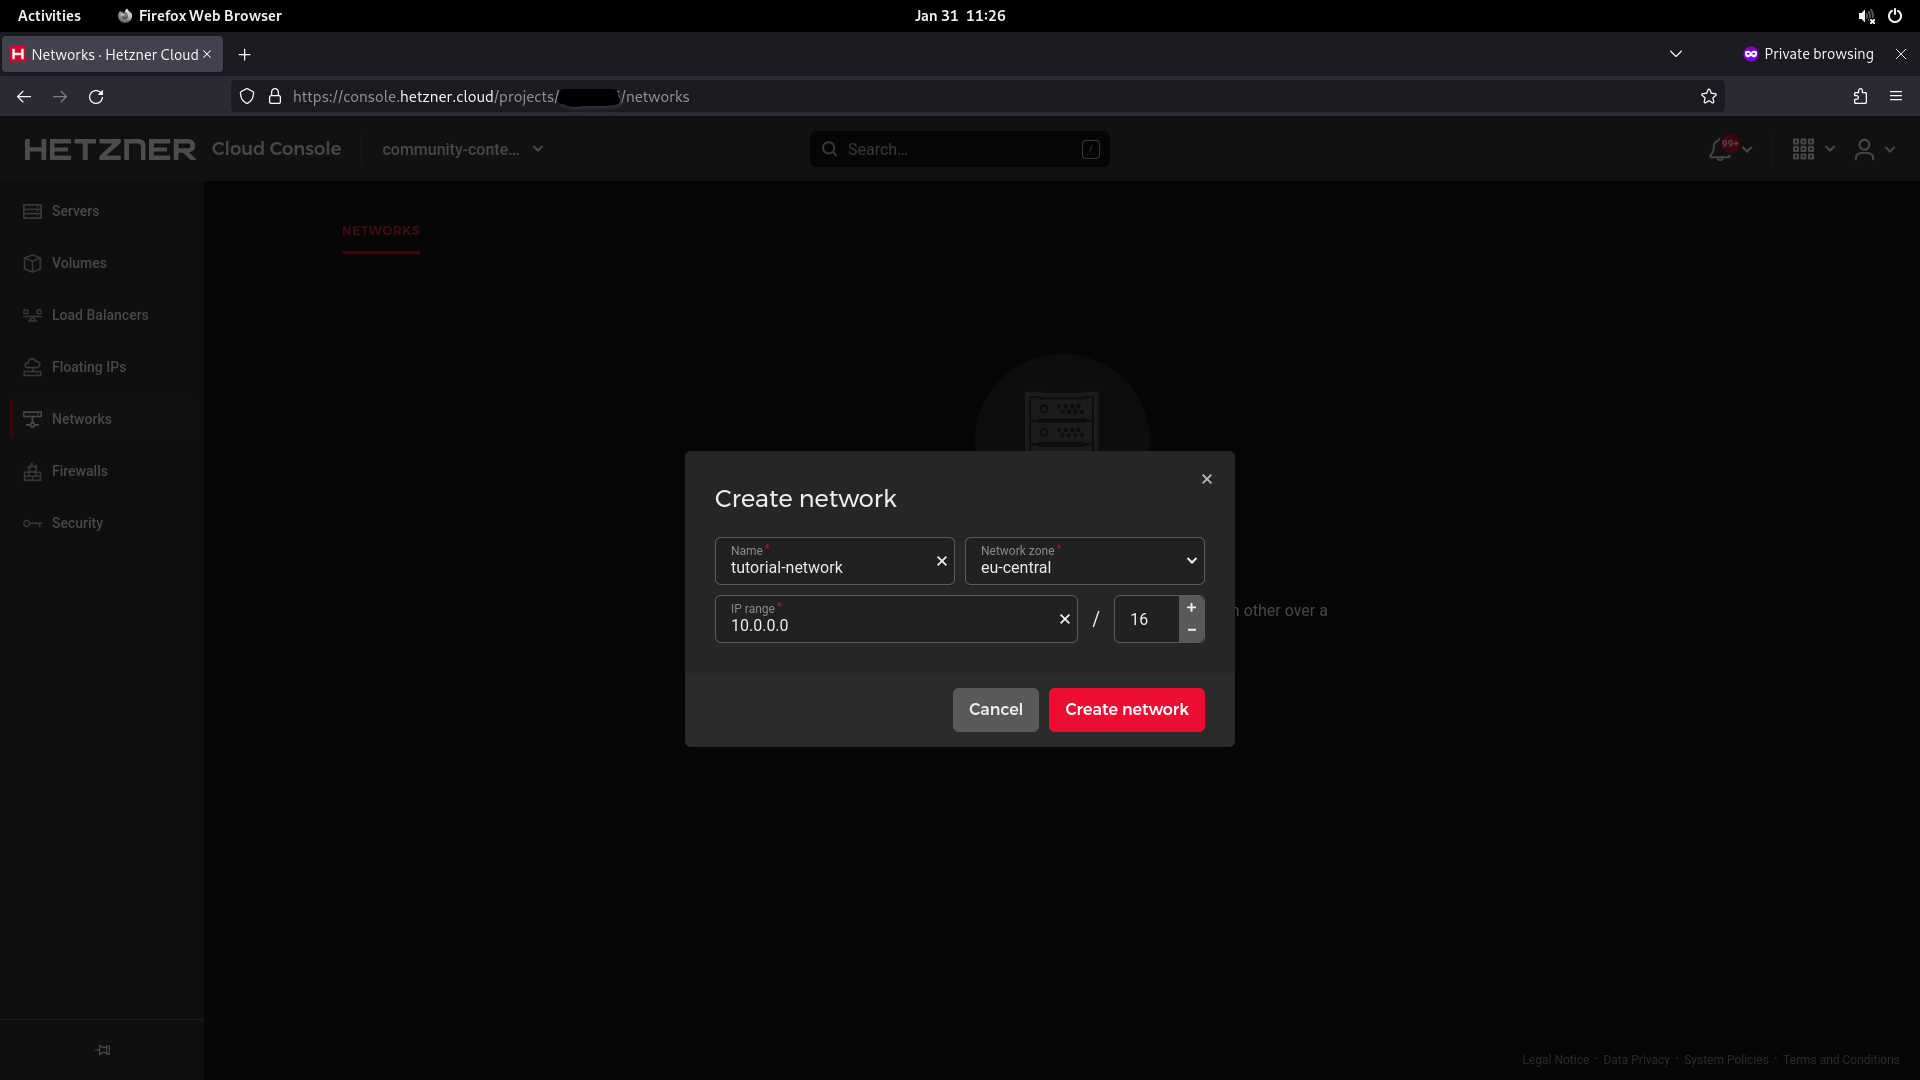
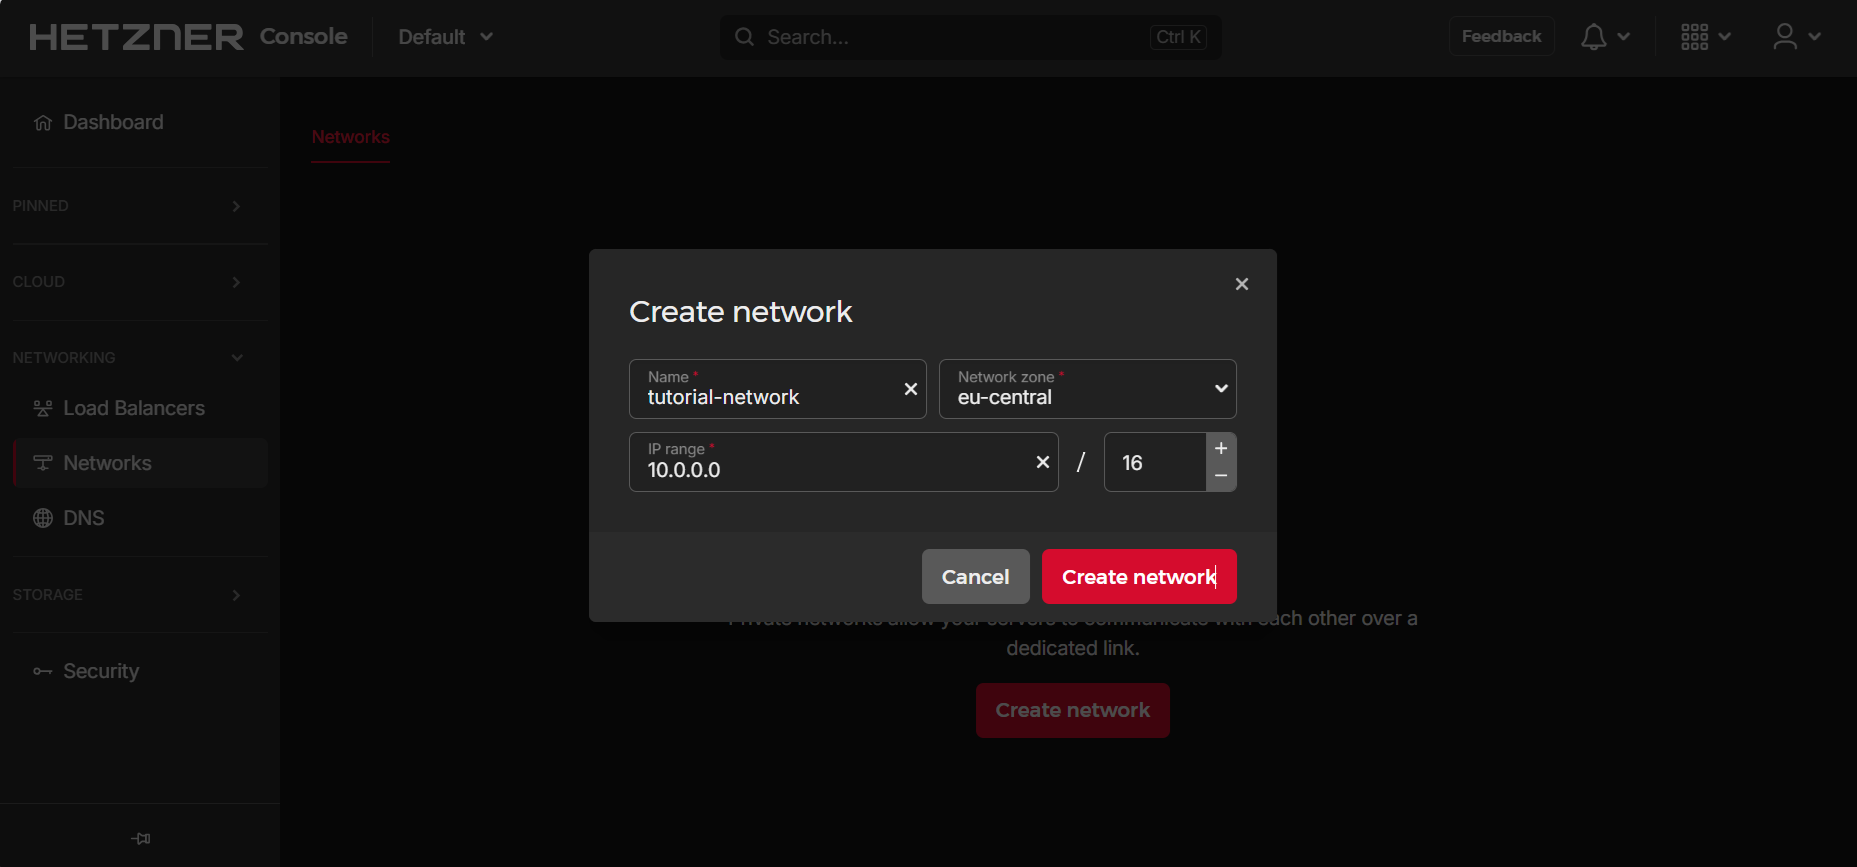
📝 Update cloud-init and screenshots (#1300)

diff --git a/tutorials/how-to-set-up-nat-for-cloud-networks/01.de.md b/tutorials/how-to-set-up-nat-for-cloud-networks/01.de.md
@@ -25,16 +25,16 @@ Am Ende dieses Tutorials, können Sie von Ihrem Server **ohne** öffentlicher IP
 
 **Voraussetzungen**
 
-* [Hetzner Cloud Account](https://console.hetzner.cloud/)
+* [Hetzner Console Account](https://console.hetzner.com/)
 
 * Dieses Tutorial ist geschrieben für:
   * Ubuntu 18.04, 20.04, 22.04 und 24.04
-  * Debian 10, 11 und 12
+  * Debian 10, 11, 12 und 13
     > Unter Debian 12, installiere `systemd-resolved`, bevor du dem Tutorial folgst.
   * CentOS 7
-  * CentOS Stream 8 und 9
-  * Fedora 36 und 37
-  * Rocky Linux 8 und 9
+  * CentOS Stream 8, 9 und 10
+  * Fedora 36, 37, 41 und 42
+  * Rocky Linux 8, 9 und 10
 
 **Beispiel-Benennungen**
 
@@ -46,7 +46,7 @@ In allen Beispiel-Befehlen muss `10.0.0.0/16` mit dem eigenen Network, `10.0.0.1
 
 ## Schritt 1 - Einrichtung des Netzwerks und der Server
 
-Öffnen Sie die Hetzner [Cloud Console](https://console.hetzner.cloud/) und wählen Sie Ihr Projekt aus.
+Öffnen Sie die [Hetzner Console](https://console.hetzner.com/) und wählen Sie Ihr Projekt aus.
 
 Sie können Ihr Network entweder zuerst erstellen oder alternativ im Erstellungsprozess Ihres Server.
 
@@ -165,7 +165,7 @@ Für die Konfiguration von Debian und Ubuntu wird in diesem Tutorial `vim` verwe
 
 <details>
 
-<summary>Debian 10 / 11 / 12, and Ubuntu 18.04</summary>
+<summary>Debian 10 / 11 / 12 / 13, and Ubuntu 18.04</summary>
 
 - **Aktualisieren**
   
@@ -220,6 +220,7 @@ Für die Konfiguration von Debian und Ubuntu wird in diesem Tutorial `vim` verwe
   auto enp7s0
   iface enp7s0 inet dhcp
       post-up ip route add default via 10.0.0.1
+  dns-nameservers 8.8.8.8 1.1.1.1
   ```
 
 ------
@@ -473,11 +474,11 @@ Speichern Sie die Datei und starten Sie den Server neu.
 
 ## Schritt 6 - Cloud-init
 
-Wenn Sie die Routen nicht manuell hinzufügen möchten, können Sie beim Erstellen der Server in der [Cloud Console](https://console.hetzner.cloud/) cloud-init verwenden. Die untenstehenden Skripte müssen auf der Erstellseite in die Textbox unter "Cloud config" hinzugefügt werden.
+Wenn Sie die Routen nicht manuell hinzufügen möchten, können Sie beim Erstellen der Server in der [Hetzner Console](https://console.hetzner.com/) cloud-init verwenden. Die untenstehenden Skripte müssen auf der Erstellseite in die Textbox unter "Cloud config" hinzugefügt werden.
 
 <details>
 
-<summary>Debian 10 / 11 / 12, und Ubuntu 18.04</summary>
+<summary>Debian 11 / 12 / 13</summary>
 
 * **NAT-Server**
   > Ersetzen Sie `10.0.0.0/16` falls nötig.
@@ -511,6 +512,7 @@ Wenn Sie die Routen nicht manuell hinzufügen möchten, können Sie beim Erstell
         iface enp7s0 inet dhcp
             post-up echo "Waiting..."
             post-up ip route add default via 10.0.0.1
+        dns-nameservers 8.8.8.8 1.1.1.1
       append: true
   
     - path: /etc/systemd/resolved.conf
@@ -586,63 +588,17 @@ Wenn Sie die Routen nicht manuell hinzufügen möchten, können Sie beim Erstell
 
 <details>
 
-<summary>Ubuntu 20.04</summary>
-
-* **NAT-Server**
-  > Ersetzen Sie `10.0.0.0/16` falls nötig.
-  
-  ```bash
-  #cloud-config
-  write_files:
-    - path: /etc/networkd-dispatcher/routable.d/50-masq
-      content: |
-        #!/bin/sh
-        
-        /bin/echo 1 > /proc/sys/net/ipv4/ip_forward
-        /sbin/iptables -t nat -A POSTROUTING -s '10.0.0.0/16' -o eth0 -j MASQUERADE
-      permissions: '0755'
-  
-  runcmd:
-    - reboot
-  ```
-
-* **Client-Server**
-  > Ersetzen Sie `10.0.0.1` falls nötig.
-
-  ```bash
-  #cloud-config
-  write_files:
-    - path: /etc/networkd-dispatcher/routable.d/50-masq
-      content: |
-        #!/bin/sh
-        
-        /sbin/ip route add default via 10.0.0.1
-      permissions: '0755'
-  
-    - path: /etc/systemd/resolved.conf
-      content: |
-        [Resolve]
-        DNS=185.12.64.2 185.12.64.1
-        FallbackDNS=8.8.8.8
-      append: true
-  
-  runcmd:
-    - reboot
-  ```
-
-------
-
-</details>
-
-<details>
-
-<summary>CentOS 7, CentOS Stream 8 / 9, Rocky Linux 8 / 9, Fedora 36 / 37</summary>
+<summary>CentOS Stream 9 / 10, Rocky Linux 8 / 9 / 10, Fedora 41 / 42</summary>
 
 * **NAT-Server**
   > Ersetzen Sie `10.0.0.0/16` falls nötig.
 
   ```bash
   #cloud-config
+  packages:
+    - iptables
+    - iptables-services
+  
   write_files:
     - path: /etc/NetworkManager/dispatcher.d/ifup-local
       content: |
@@ -666,7 +622,10 @@ Wenn Sie die Routen nicht manuell hinzufügen möchten, können Sie beim Erstell
       content: |
         #!/bin/sh
         
-        /sbin/ip route add default via 10.0.0.1
+        nm-online -q --timeout=30
+        if ! ip route show default | grep -q "via 10.0.0.1"; then
+            /sbin/ip route add default via 10.0.0.1
+        fi
       permissions: '0755'
   
     - path: /etc/systemd/resolved.conf

diff --git a/tutorials/how-to-set-up-nat-for-cloud-networks/01.en.md b/tutorials/how-to-set-up-nat-for-cloud-networks/01.en.md
@@ -25,16 +25,16 @@ By the end of this tutorial, you will be able to access the public network from 
 
 **Prerequisites**
 
-* [Hetzner Cloud account](https://console.hetzner.cloud/)
+* [Hetzner Console account](https://console.hetzner.com/)
 
 * This tutorial is written for:
   * Ubuntu 18.04, 20.04, 22.04, and 24.04
-  * Debian 10, 11 and 12
+  * Debian 10, 11, 12 and 13
     > On Debian 12, please install `systemd-resolved` before you follow this tutorial.
   * CentOS 7
-  * CentOS Stream 8 and 9
-  * Fedora 36 and 37
-  * Rocky Linux 8 and 9.
+  * CentOS Stream 8, 9 and 10
+  * Fedora 36, 37, 41 and 42
+  * Rocky Linux 8, 9 and 10
 
 **Example terminology**
 
@@ -46,7 +46,7 @@ Please replace `10.0.0.0/16` with your own network, `10.0.0.1` with your own net
 
 ## Step 1 - Creating the Network and servers
 
-Open the Hetzner [Cloud Console](https://console.hetzner.cloud/) and select your project.
+Open the [Hetzner Console](https://console.hetzner.com/) and select your project.
 
 You can create your Network first or, alternatively, together with your servers at server creation.
 
@@ -165,7 +165,7 @@ The example commands below for Debian and Ubuntu use `vim`, which can be install
 
 <details>
 
-<summary>Debian 10 / 11 / 12, and Ubuntu 18.04</summary>
+<summary>Debian 10 / 11 / 12 / 13, and Ubuntu 18.04</summary>
 
 - **Update**
   
@@ -220,6 +220,7 @@ The example commands below for Debian and Ubuntu use `vim`, which can be install
   auto enp7s0
   iface enp7s0 inet dhcp
       post-up ip route add default via 10.0.0.1
+  dns-nameservers 8.8.8.8 1.1.1.1
   ```
 
 ------
@@ -473,11 +474,11 @@ Save the file and restart the server.
 
 ## Step 6 - Cloud-init
 
-If you don't want to setup the routes manually, you can use cloud-init and add the scripts below in the cloud config text box when you create new servers in [Cloud Console](https://console.hetzner.cloud/).
+If you don't want to setup the routes manually, you can use cloud-init and add the scripts below in the cloud config text box when you create new servers in [Hetzner Console](https://console.hetzner.com/).
 
 <details>
 
-<summary>Debian 10 / 11 / 12, and Ubuntu 18.04</summary>
+<summary>Debian 11 / 12 / 13</summary>
 
 * **NAT server**
   > Replace `10.0.0.0/16` as needed.
@@ -511,6 +512,7 @@ If you don't want to setup the routes manually, you can use cloud-init and add t
         iface enp7s0 inet dhcp
             post-up echo "Waiting..."
             post-up ip route add default via 10.0.0.1
+        dns-nameservers 8.8.8.8 1.1.1.1
       append: true
   
     - path: /etc/systemd/resolved.conf
@@ -588,63 +590,17 @@ If you don't want to setup the routes manually, you can use cloud-init and add t
 
 <details>
 
-<summary>Ubuntu 20.04</summary>
-
-* **NAT server**
-  > Replace `10.0.0.0/16` as needed.
-  
-  ```bash
-  #cloud-config
-  write_files:
-    - path: /etc/networkd-dispatcher/routable.d/50-masq
-      content: |
-        #!/bin/sh
-        
-        /bin/echo 1 > /proc/sys/net/ipv4/ip_forward
-        /sbin/iptables -t nat -A POSTROUTING -s '10.0.0.0/16' -o eth0 -j MASQUERADE
-      permissions: '0755'
-  
-  runcmd:
-    - reboot
-  ```
-
-* **Client server**
-  > Replace `10.0.0.1` as needed.
-
-  ```bash
-  #cloud-config
-  write_files:
-    - path: /etc/networkd-dispatcher/routable.d/50-masq
-      content: |
-        #!/bin/sh
-        
-        /sbin/ip route add default via 10.0.0.1
-      permissions: '0755'
-  
-    - path: /etc/systemd/resolved.conf
-      content: |
-        [Resolve]
-        DNS=185.12.64.2 185.12.64.1
-        FallbackDNS=8.8.8.8
-      append: true
-  
-  runcmd:
-    - reboot
-  ```
-
-------
-
-</details>
-
-<details>
-
-<summary>CentOS 7, CentOS Stream 8 / 9, Rocky Linux 8 / 9, Fedora 36 / 37</summary>
+<summary>CentOS Stream 9 / 10, Rocky Linux 8 / 9 / 10, Fedora 41 / 42</summary>
 
 * **NAT server**
   > Replace `10.0.0.0/16` as needed.
 
   ```bash
   #cloud-config
+  packages:
+    - iptables
+    - iptables-services
+  
   write_files:
     - path: /etc/NetworkManager/dispatcher.d/ifup-local
       content: |
@@ -668,7 +624,10 @@ If you don't want to setup the routes manually, you can use cloud-init and add t
       content: |
         #!/bin/sh
         
-        /sbin/ip route add default via 10.0.0.1
+        nm-online -q --timeout=30
+        if ! ip route show default | grep -q "via 10.0.0.1"; then
+            /sbin/ip route add default via 10.0.0.1
+        fi
       permissions: '0755'
   
     - path: /etc/systemd/resolved.conf
